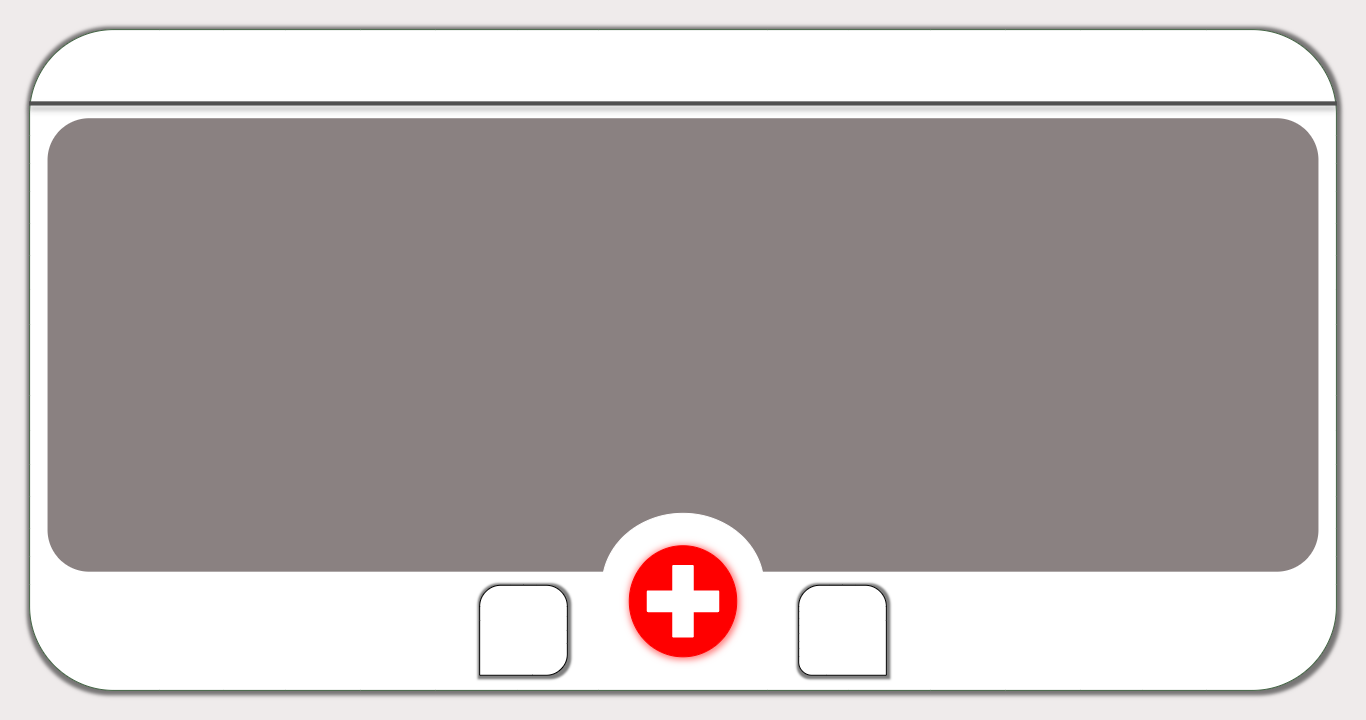
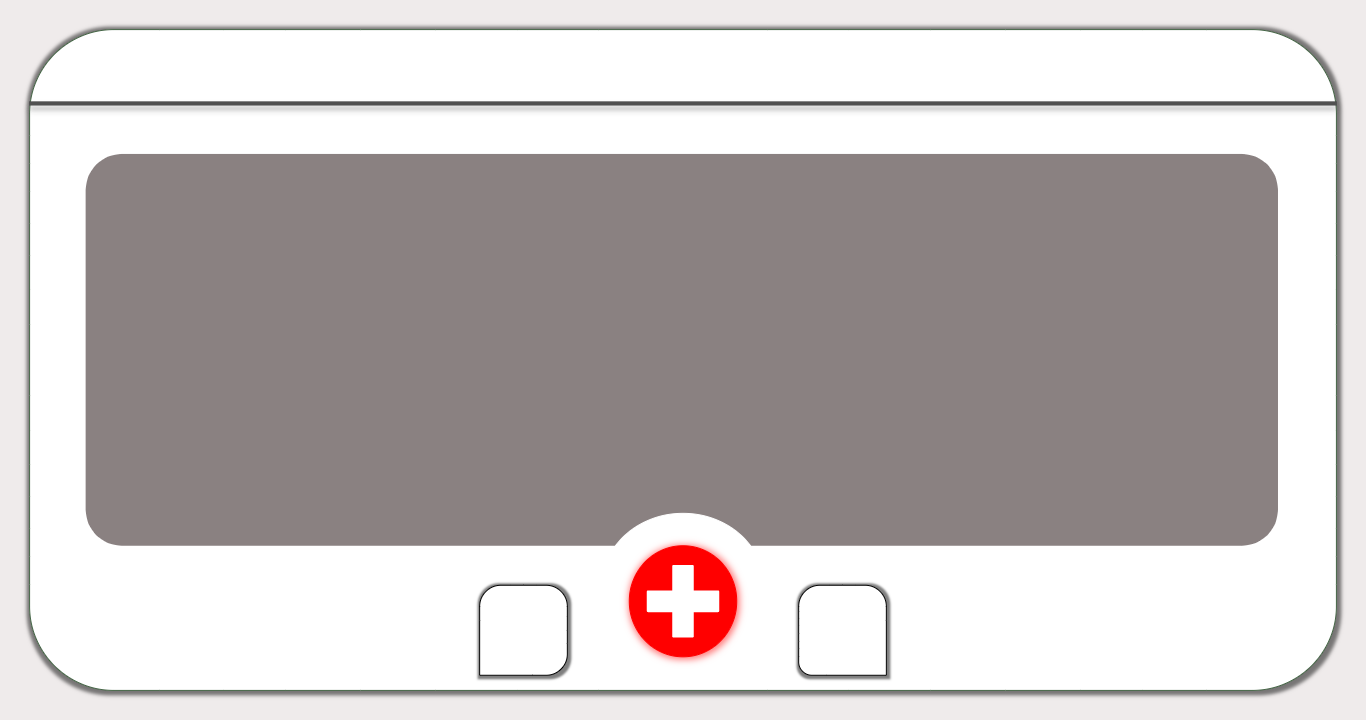
Added new feature page!

Changed region(s): [[0.0307, 0.1528, 0.9839, 0.7944]]

diff --git a/New_Interface/Frontend/concatenate_files.py b/New_Interface/Frontend/concatenate_files.py
@@ -43,6 +43,8 @@ class ConcatenateFiles(UserDashboard):
 
         self.set_frame()
 
+
+
         self.lb_selection = Listbox(self.window, width=50, height=3)
         self.lb_selection.place(x=150, y=250)
         self.listbox_object = dashboard_selection
@@ -69,7 +71,7 @@ class ConcatenateFiles(UserDashboard):
 
     def set_frame(self):
         add_frame = Frame(self.window)
-        add_frame.place(x=46, y=115)
+        add_frame.place(x=48, y=116)
 
         self.add_dashboard_frame = ImageTk.PhotoImage \
             (file='images\\concatenate_frame.png')
@@ -83,24 +85,25 @@ class ConcatenateFiles(UserDashboard):
                                  , borderwidth=0, background="white", cursor="hand2", command=self.click_add)
         self.add_button.place(x=622, y=542)
 
+
+
     def click_concatenate_files(self):
         selected = self.lb_common.curselection()
         selected_files = self.extract_common_features()
         one_element = ''
         for index in selected[::-1]:
             one_element = selected_files[index]
-
-        print(one_element)
-        files = self.read_selected_files()
-        merged_dataset = pd
-        for i, dataset in enumerate(files):
-            if i == 0:
-                merged_dataset = dataset
-            else:
-                merged_dataset = pd.merge(merged_dataset,
-                                          dataset, on=one_element)
-                messagebox.showinfo("Merged Data", "Data was merged on: \n {}".format(one_element))
-        # todo Need to do something with the data, (i.e. save)
+        if one_element != '':
+            files = self.read_selected_files()
+            merged_dataset = pd
+            for i, dataset in enumerate(files):
+                if i == 0:
+                    merged_dataset = dataset
+                else:
+                    merged_dataset = pd.merge(merged_dataset,
+                                              dataset, on=one_element)
+                    messagebox.showinfo("Merged Data", "Data was merged on: \n {}".format(one_element))
+            # todo Need to do something with the data, (i.e. save)
 
 
     def extract_common_features(self):

diff --git a/New_Interface/Frontend/feature_dashboard.py b/New_Interface/Frontend/feature_dashboard.py
@@ -36,7 +36,7 @@ class FeatureDashboard(UserDashboard):
 
     def set_frame(self):
         add_frame = Frame(self.window)
-        add_frame.place(x=46, y=115)
+        add_frame.place(x=48, y=116)
 
         self.add = ImageTk.PhotoImage \
             (file='images\\add_button_red.png')
@@ -53,6 +53,11 @@ class FeatureDashboard(UserDashboard):
                                               , borderwidth=0, background="white", cursor="hand2",
                                               command=self.click_next_file)
         self.next_feature_button_blue.place(x=477, y=583)
+
+        self.feature_dashboard_frame = ImageTk.PhotoImage \
+            (file='images\\feature_frame.png')
+        self.feature_panel = Label(add_frame, image=self.feature_dashboard_frame, bg="white")
+        self.feature_panel.pack(fill='both', expand='yes')
 
     def click_add(self):
         add_frame = Frame(self.window)

diff --git a/New_Interface/Frontend/user_dashboard.py b/New_Interface/Frontend/user_dashboard.py
@@ -53,9 +53,6 @@ class UserDashboard:
         self.add_button.place(x=622, y=542)
         self.click_add()
 
-
-
-
     def click_next_file(self):
         self.next_feature = ImageTk.PhotoImage \
             (file='images\\feature_button_red.png')
@@ -76,7 +73,7 @@ class UserDashboard:
 
     def click_add(self):
         add_frame = Frame(self.window)
-        add_frame.place(x=46, y=115)
+        add_frame.place(x=48, y=116)
 
         self.add_dashboard_frame = ImageTk.PhotoImage \
             (file='images\\add_frame.png')
@@ -148,6 +145,7 @@ class UserDashboard:
         if self.get_selection() != []:
             win = Toplevel()
             from New_Interface.Frontend import concatenate_files
+            #todo Buttton not works.
             concatenate_files.ConcatenateFiles(win, self.get_selection())
             self.window.withdraw()
             win.deiconify()

diff --git a/New_Interface/Frontend/combine_files.py b/New_Interface/Frontend/combine_files.py
@@ -4,7 +4,7 @@ from tqdm import tk
 
 from New_Interface.Frontend.concatenate_files import ConcatenateFiles
 
-
+#todo Make combine_files with concatenate_files, make it automatic.
 class CombineFiles(ConcatenateFiles):
     def __init__(self,dashboard_selection):
         self.listbox_object = dashboard_selection
